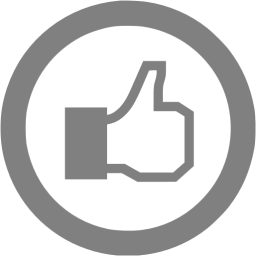
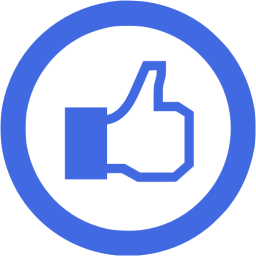
Show reply comment

diff --git a/app/assets/stylesheets/images.scss b/app/assets/stylesheets/images.scss
@@ -8,6 +8,7 @@
     min-width: 60%;
     max-height: 80vh;
     max-width: 90%;
+    margin-top: 50px;
 
     .images-show-detail {
       height: 100%;
@@ -57,11 +58,17 @@
           }
 
           .dropdown-menu {
-            min-width: 70px;
+            min-width: 120px;
+
+            a:hover {
+              cursor: auto;
+              text-decoration: none !important;
+            }
 
             li {
               border-bottom: 1px solid rgba(8, 8, 8, 0.1);
               padding: 7px;
+              color: black;
             }
           }
 
@@ -88,6 +95,14 @@
   .images-footer {
     .images-like {
       cursor: pointer;
+
+      .like {
+        color: black;
+      }
+
+      .unlike {
+        color: blue;
+      }
 
       .images-like-icon {
         height: 23px;

diff --git a/app/assets/stylesheets/comments.scss b/app/assets/stylesheets/comments.scss
@@ -1,5 +1,4 @@
 .comments {
-  padding-bottom: 10px;
   padding-top: 10px;
 
   .comments-header {

diff --git a/app/helpers/application_helper.rb b/app/helpers/application_helper.rb
@@ -1,9 +1,18 @@
 module ApplicationHelper
   def avatar_profile user
-    if user.avatar
+    if user && user.avatar
       user.avatar.url
     else
       "#{user.sex}.png"
+    end
+  end
+
+  def user_reply_comment comment
+    if comment
+      comment_reply = comment.reply_comment
+      if comment_reply && comment_reply.user != comment.user
+        link_to comment_reply.user.full_name, "#"
+      end
     end
   end
 end

diff --git a/app/models/user.rb b/app/models/user.rb
@@ -28,11 +28,14 @@ class User < ApplicationRecord
     following.order(created_at: :desc).limit 5
   end
 
-  def news_feed
-    Image.all
+  def images_news_feed
+    user_ids = following.ids
+    user_ids.push self.id
+    Image.where user_id: user_ids
   end
 
   def liked image
-    true
+    FeedBack.find_by image_id: image.id, user_id: self.id,
+      feed_back_type: "like"
   end
 end

diff --git a/app/models/image.rb b/app/models/image.rb
@@ -2,8 +2,16 @@ class Image < ApplicationRecord
   belongs_to :user
   belongs_to :category
 
+  has_many :comments, dependent: :destroy
+
   validates :user, presence: true
   validates :category, presence: true
 
+  mount_uploader :image, ImageUploader
+
   scope :popular_images, -> {order(like_number: :desc).limit 5}
+
+  def main_comments
+    comments.where parent_id: nil
+  end
 end

diff --git a/app/models/comment.rb b/app/models/comment.rb
@@ -5,4 +5,12 @@ class Comment < ApplicationRecord
   validates :user, presence: true
   validates :image, presence: true
   validates :content, presence: true
+
+  def reply_comments
+    Comment.where(parent_id: self.id).where.not id: self.id
+  end
+
+  def reply_comment
+    Comment.find_by id: self.reply_id
+  end
 end

diff --git a/app/uploaders/image_uploader.rb b/app/uploaders/image_uploader.rb
@@ -1,0 +1,12 @@
+class ImageUploader < CarrierWave::Uploader::Base
+  include CarrierWave::MiniMagick
+  storage :file
+
+  def store_dir
+    "uploads/#{model.class.to_s.underscore}/#{mounted_as}/#{model.id}"
+  end
+
+  def extension_white_list
+    %w(jpg jpeg gif png)
+  end
+end

diff --git a/db/schema.rb b/db/schema.rb
@@ -23,6 +23,7 @@ ActiveRecord::Schema.define(version: 20170404141800) do
     t.string   "content"
     t.integer  "image_id"
     t.integer  "parent_id"
+    t.integer  "reply_id"
     t.datetime "created_at", null: false
     t.datetime "updated_at", null: false
   end

diff --git a/app/controllers/pages_controller.rb b/app/controllers/pages_controller.rb
@@ -11,6 +11,7 @@ class PagesController < ApplicationController
       @followings = User.all
       @know_users = User.all
       @popular_images = Image.popular_images
+      @images = current_user.images_news_feed
     else
     end
   end

diff --git a/config/environment.rb b/config/environment.rb
@@ -1,5 +1,6 @@
 # Load the Rails application.
-require_relative 'application'
+require_relative "application"
+require "carrierwave/orm/activerecord"
 
 # Initialize the Rails application.
 Rails.application.initialize!

diff --git a/db/migrate/20170404141800_create_comments.rb b/db/migrate/20170404141800_create_comments.rb
@@ -5,6 +5,7 @@ class CreateComments < ActiveRecord::Migration[5.0]
       t.string :content
       t.integer :image_id
       t.integer :parent_id
+      t.integer :reply_id
 
       t.timestamps
     end
